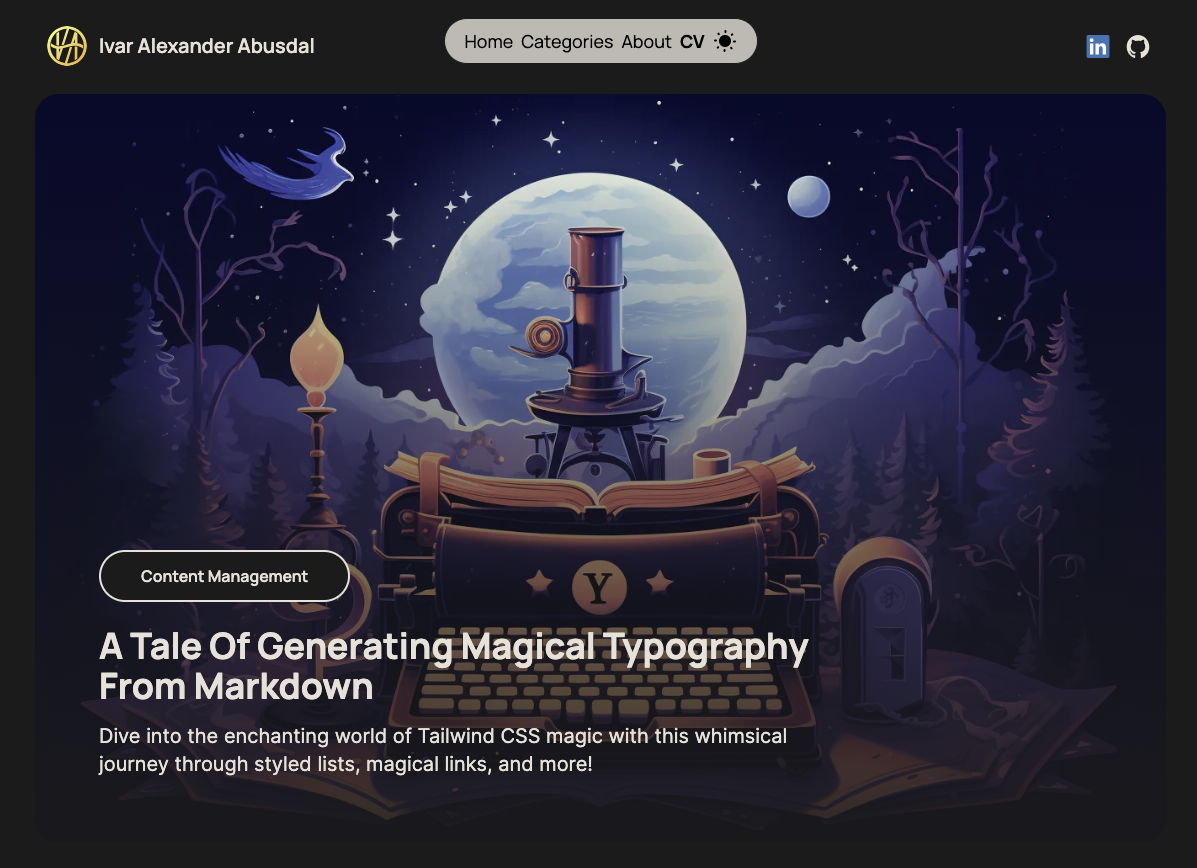
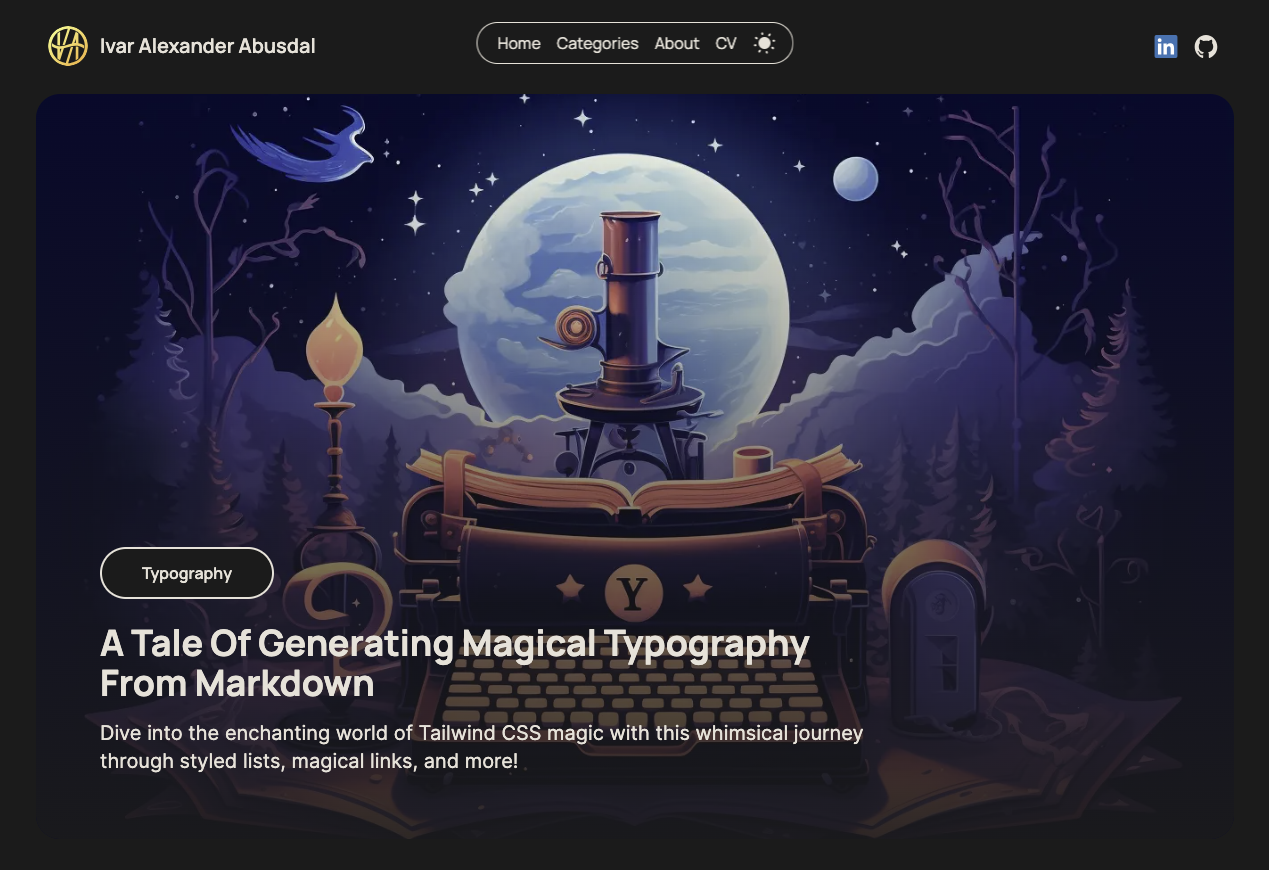
hotfix: lost colors on the light menu for a sec...

diff --git a/src/components/Header/StandardMenu.js b/src/components/Header/StandardMenu.js
@@ -9,10 +9,10 @@ const StandardMenu = () => {
 
     return (
         <>
-            <nav className="w-max py-2 px-2 md:px-4 lg:mt-1 border border-solid border-dark dark:border-light
-                    rounded-full text-sm md:text-base lg:text-lg capitalize hidden sm:flex
+            <nav className="w-max py-2 px-2 md:px-4 lg:mt-1t border border-solid border-dark dark:border-light
+                    rounded-full text-sm md:text-base capitalize hidden sm:flex
                     items-center fixed top-5 right-1/2 translate-x-1/2 bg-light/80 dark:bg-dark/80
-                    backdrop-blur-sm z-50 text-dark dark:text-light text-light lg:text-base">
+                    backdrop-blur-sm z-50 text-dark dark:text-light lg:text-base">
                 <Link href="/" className="hover:text-accent dark:hover:text-accentDark ml-1">Home</Link>
                 <Link href="/categories/all" className="mx-3 lg:mx-4 hover:text-accent dark:hover:text-accentDark">Categories</Link>
                 <Link href="/about" className="mx-0 hover:text-accent dark:hover:text-accentDark">About</Link>
